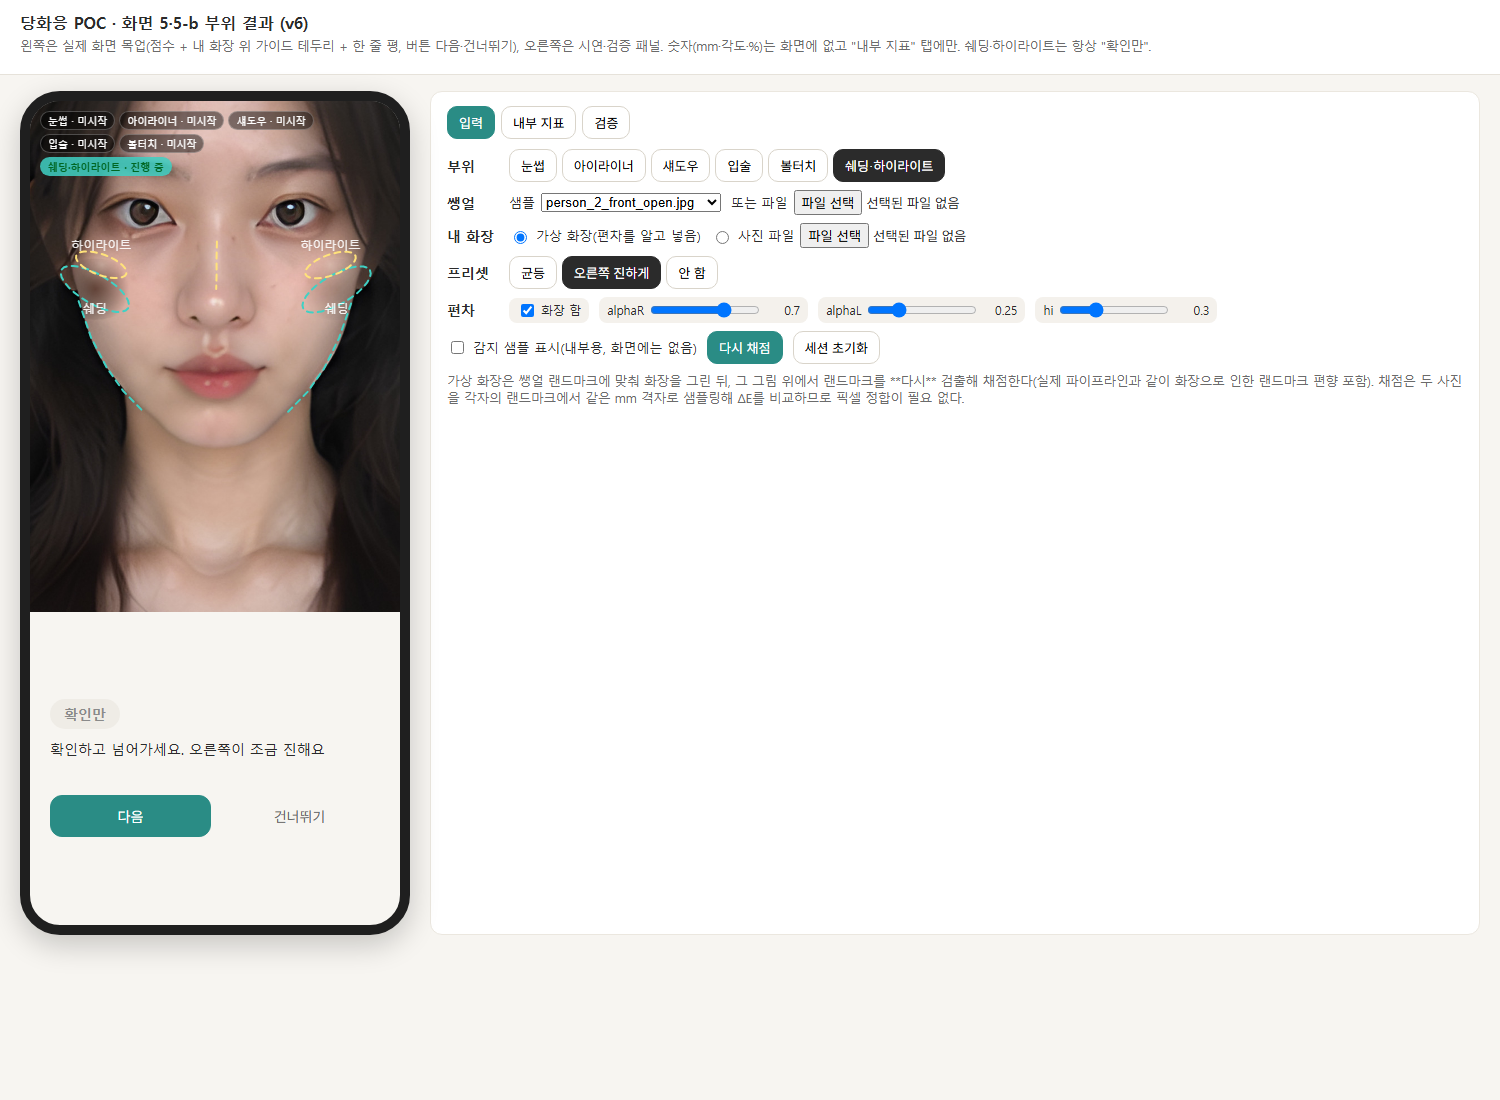
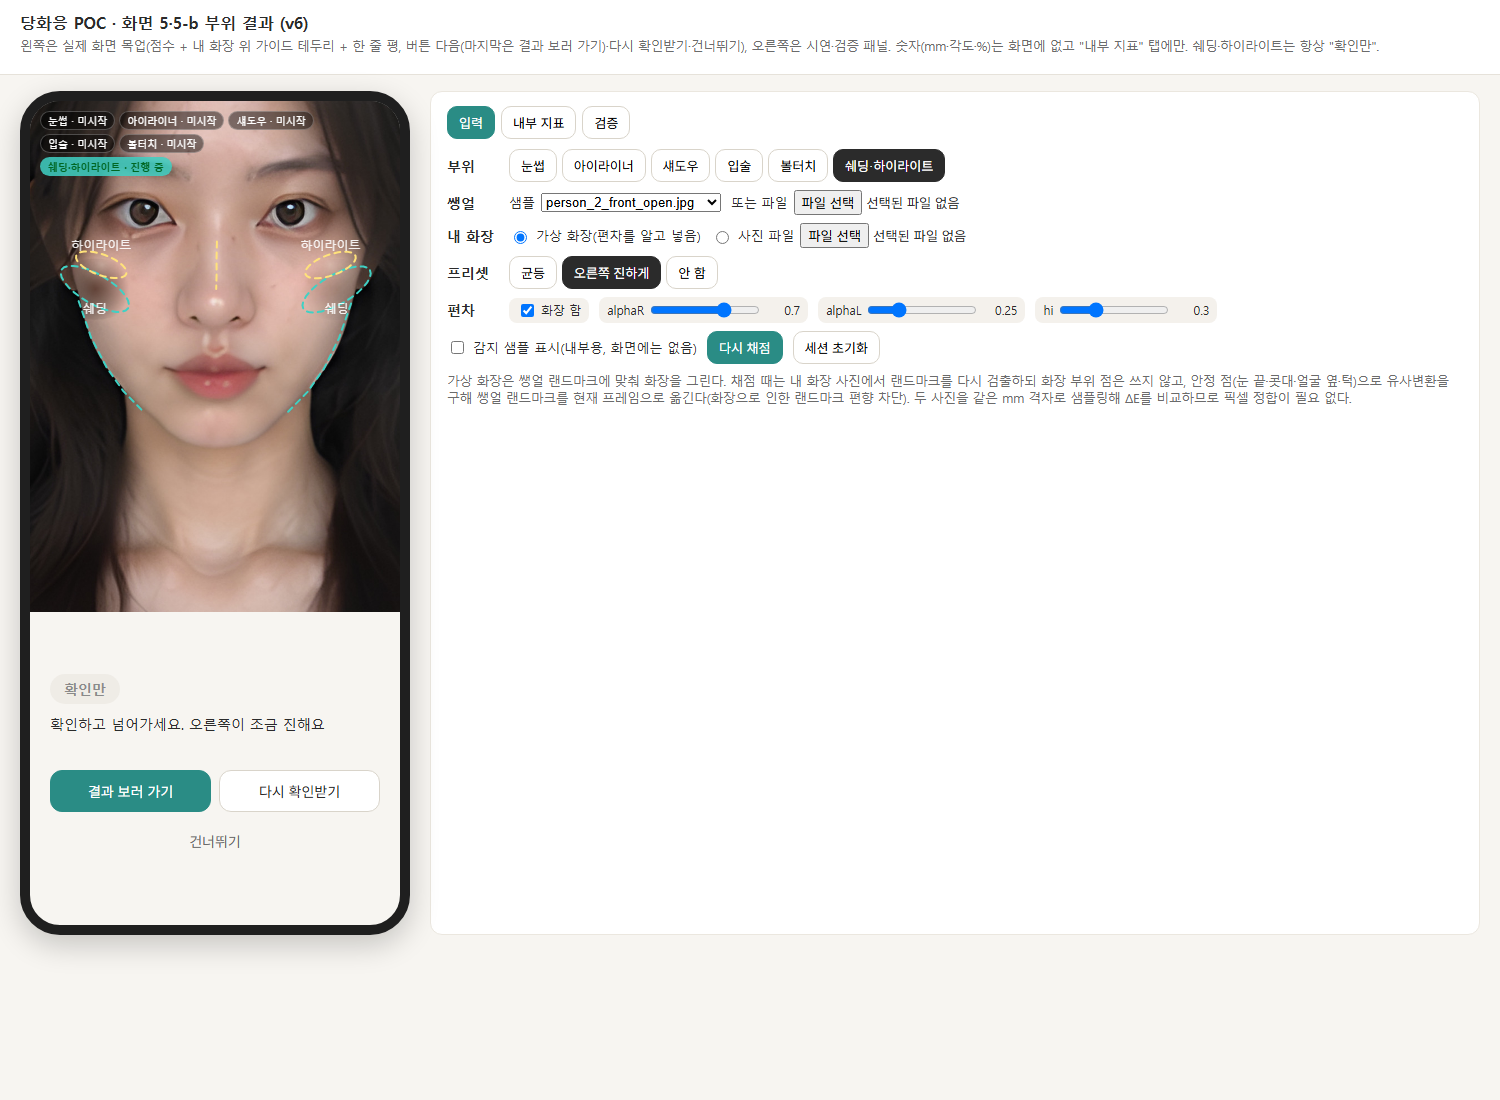
화면 5 POC: '다시 확인받기' 버튼(규칙 변경 반영), 마지막 부위 '결과 보러 가기' 캡처 갱신
Claude-Session: https://claude.ai/code/session_01XZGyGspy4Y4PECP2USdxRz

diff --git a/poc/screen5/index.html b/poc/screen5/index.html
@@ -9,7 +9,7 @@
 <body>
 <header>
   <h1>당화응 POC · 화면 5·5-b 부위 결과 (v6)</h1>
-  <div class="hint">왼쪽은 실제 화면 목업(점수 + 내 화장 위 가이드 테두리 + 한 줄 평, 버튼 다음·건너뛰기), 오른쪽은 시연·검증 패널. 숫자(mm·각도·%)는 화면에 없고 "내부 지표" 탭에만. 쉐딩·하이라이트는 항상 "확인만".</div>
+  <div class="hint">왼쪽은 실제 화면 목업(점수 + 내 화장 위 가이드 테두리 + 한 줄 평, 버튼 다음(마지막은 결과 보러 가기)·다시 확인받기·건너뛰기), 오른쪽은 시연·검증 패널. 숫자(mm·각도·%)는 화면에 없고 "내부 지표" 탭에만. 쉐딩·하이라이트는 항상 "확인만".</div>
 </header>
 
 <main>
@@ -20,7 +20,7 @@
         <div class="scorebox" id="scorebox"><span class="big" id="score">—</span><small>/ 100</small></div>
         <div class="checkchip" id="checkchip" hidden>확인만</div>
         <div class="line" id="line">—</div>
-        <div class="btns"><button id="btnNext" class="primary">다음</button><button id="btnSkip" class="ghost">건너뛰기</button></div>
+        <div class="btns"><button id="btnNext" class="primary">다음</button><button id="btnRetry" class="secondary">다시 확인받기</button><button id="btnSkip" class="ghost">건너뛰기</button></div>
       </div>
       <div class="toast" id="toast" hidden></div>
       <div class="loading" id="loading">모델 로딩 중…</div>

diff --git a/poc/screen5/style.css b/poc/screen5/style.css
@@ -27,11 +27,13 @@ main { display:grid; grid-template-columns: auto 1fr; gap:20px; padding:16px 20p
 .checkchip { display:inline-block; align-self:flex-start; font-size:14px; padding:6px 14px; border-radius:16px; background:var(--gray-bg); color:var(--gray); font-weight:700; }
 .line { font-size:14px; line-height:1.45; min-height:40px; }
 .btns { display:flex; flex-direction:column; gap:8px; margin-top:6px; }
-.portrait .btns { flex-direction:row; }
-.portrait .btns button { flex:1; }
+.portrait .btns { flex-direction:row; flex-wrap:wrap; }
+.portrait .btns button { flex:1 1 45%; }
+.portrait .btns .ghost { flex-basis:100%; }
 button { padding:10px 14px; border:1px solid #d9d4ca; border-radius:12px; background:#fff; cursor:pointer; font-size:14px; }
 button.primary { background:var(--accent); color:#fff; border-color:var(--accent); }
 button.ghost { background:transparent; color:var(--muted); border-color:transparent; }
+button.secondary { background:#fff; color:var(--txt); border-color:#d9d4ca; }
 button.on { background:#2B2B2B; color:#fff; border-color:#2B2B2B; }
 .toast { position:absolute; bottom:18px; left:50%; transform:translateX(-50%); background:rgba(0,0,0,.75); color:#fff; padding:8px 14px; border-radius:20px; font-size:13px; white-space:nowrap; z-index:6; }
 .loading { position:absolute; inset:0; display:flex; align-items:center; justify-content:center; color:#ccc; background:rgba(17,17,17,.85); font-size:14px; z-index:5; }

diff --git a/poc/screen5/app.js b/poc/screen5/app.js
@@ -151,6 +151,8 @@ $('btnNext').onclick = () => {
   if (nx) { setPart(nx); }
   else renderChips();
 };
+// 다시 확인받기 → 화면 4(실시간 테두리)로 돌아가 다시 촬영. POC에서는 가상 화장을 다시 만들어 재채점(attempts+1로 덮어쓰기)
+$('btnRetry').onclick = () => { S.session = { ...S.session, parts: S.session.parts.map((p) => p.partId === S.part ? { ...p, attempts: (p.attempts || 0) + 1 } : p) }; run(); toast('화면 4로 돌아가 다시 촬영 → 새 결과로 덮어쓰기'); };
 $('btnSkip').onclick = () => {
   S.session = applySkip(S.session, S.part); const nx = nextPartId(S.session, S.part);
   toast(nx ? `건너뜀 (합산 제외) → 다음: ${PART_NAME[nx]}` : '건너뜀 → 화면 6 전체 리뷰');

diff --git a/poc/screen5/README.md b/poc/screen5/README.md
@@ -1,6 +1,6 @@
 # 화면 5·5-b POC — 부위 결과 (v6)
 
-확인받기 결과 화면. **점수(또는 "확인만") + 내 화장 사진 위 가이드 테두리 + 한 줄 평**, 버튼은 **다음 / 건너뛰기** 뿐(재시도 없음, 점수가 낮아도 다음 가능).
+확인받기 결과 화면. **점수(또는 "확인만") + 내 화장 사진 위 가이드 테두리 + 한 줄 평**, 버튼은 **다음(마지막 부위는 "결과 보러 가기") / 다시 확인받기 / 건너뛰기**(점수가 낮아도 다음 가능).
 숫자(mm·각도·%)는 화면에 없고 시연 패널의 "내부 지표" 탭에만 있다. 쉐딩·하이라이트는 항상 "확인만".
 
 ## 실행
@@ -31,7 +31,7 @@ URL 해시: `#part=liner&preset=wing_high_r&sample=person_2_front_open.jpg`, `#s
 | 5-2 점수 / 5b-8 확인만 | 큰 숫자 또는 회색 칩 "확인만" |
 | 5-3·5-4·5b-3·5b-5 내부 지표 | 화면 비표시. "내부 지표" 탭 |
 | 5-5 한 줄 평 + 코드 | `DIAG_TEXT`(core.js) |
-| 5-6 버튼 | 다음(항상 활성, passed 또는 check_only) / 건너뛰기(skipped, 합산 제외). 다음 미완료 부위로 이동. **마지막 부위에서는 "다음" 대신 "결과 보러 가기"**(→ 화면 6). 재시도 버튼 없음 |
+| 5-6 버튼 | 다음(항상 활성, passed 또는 check_only) / **다시 확인받기**(화면 4로 돌아가 다시 촬영, 새 결과로 덮어쓰기·attempts+1. POC는 재채점) / 건너뛰기(skipped, 합산 제외). 다음 미완료 부위로 이동. **마지막 부위에서는 "다음" 대신 "결과 보러 가기"**(→ 화면 6) |
 | 진행 칩 | 왼쪽 위 6개, 상태·점수. 탭하면 그 부위로 돌아가 다시 확인(실제 앱은 화면 3 완성본부터, POC는 바로 재채점) |
 
 ## 파일
